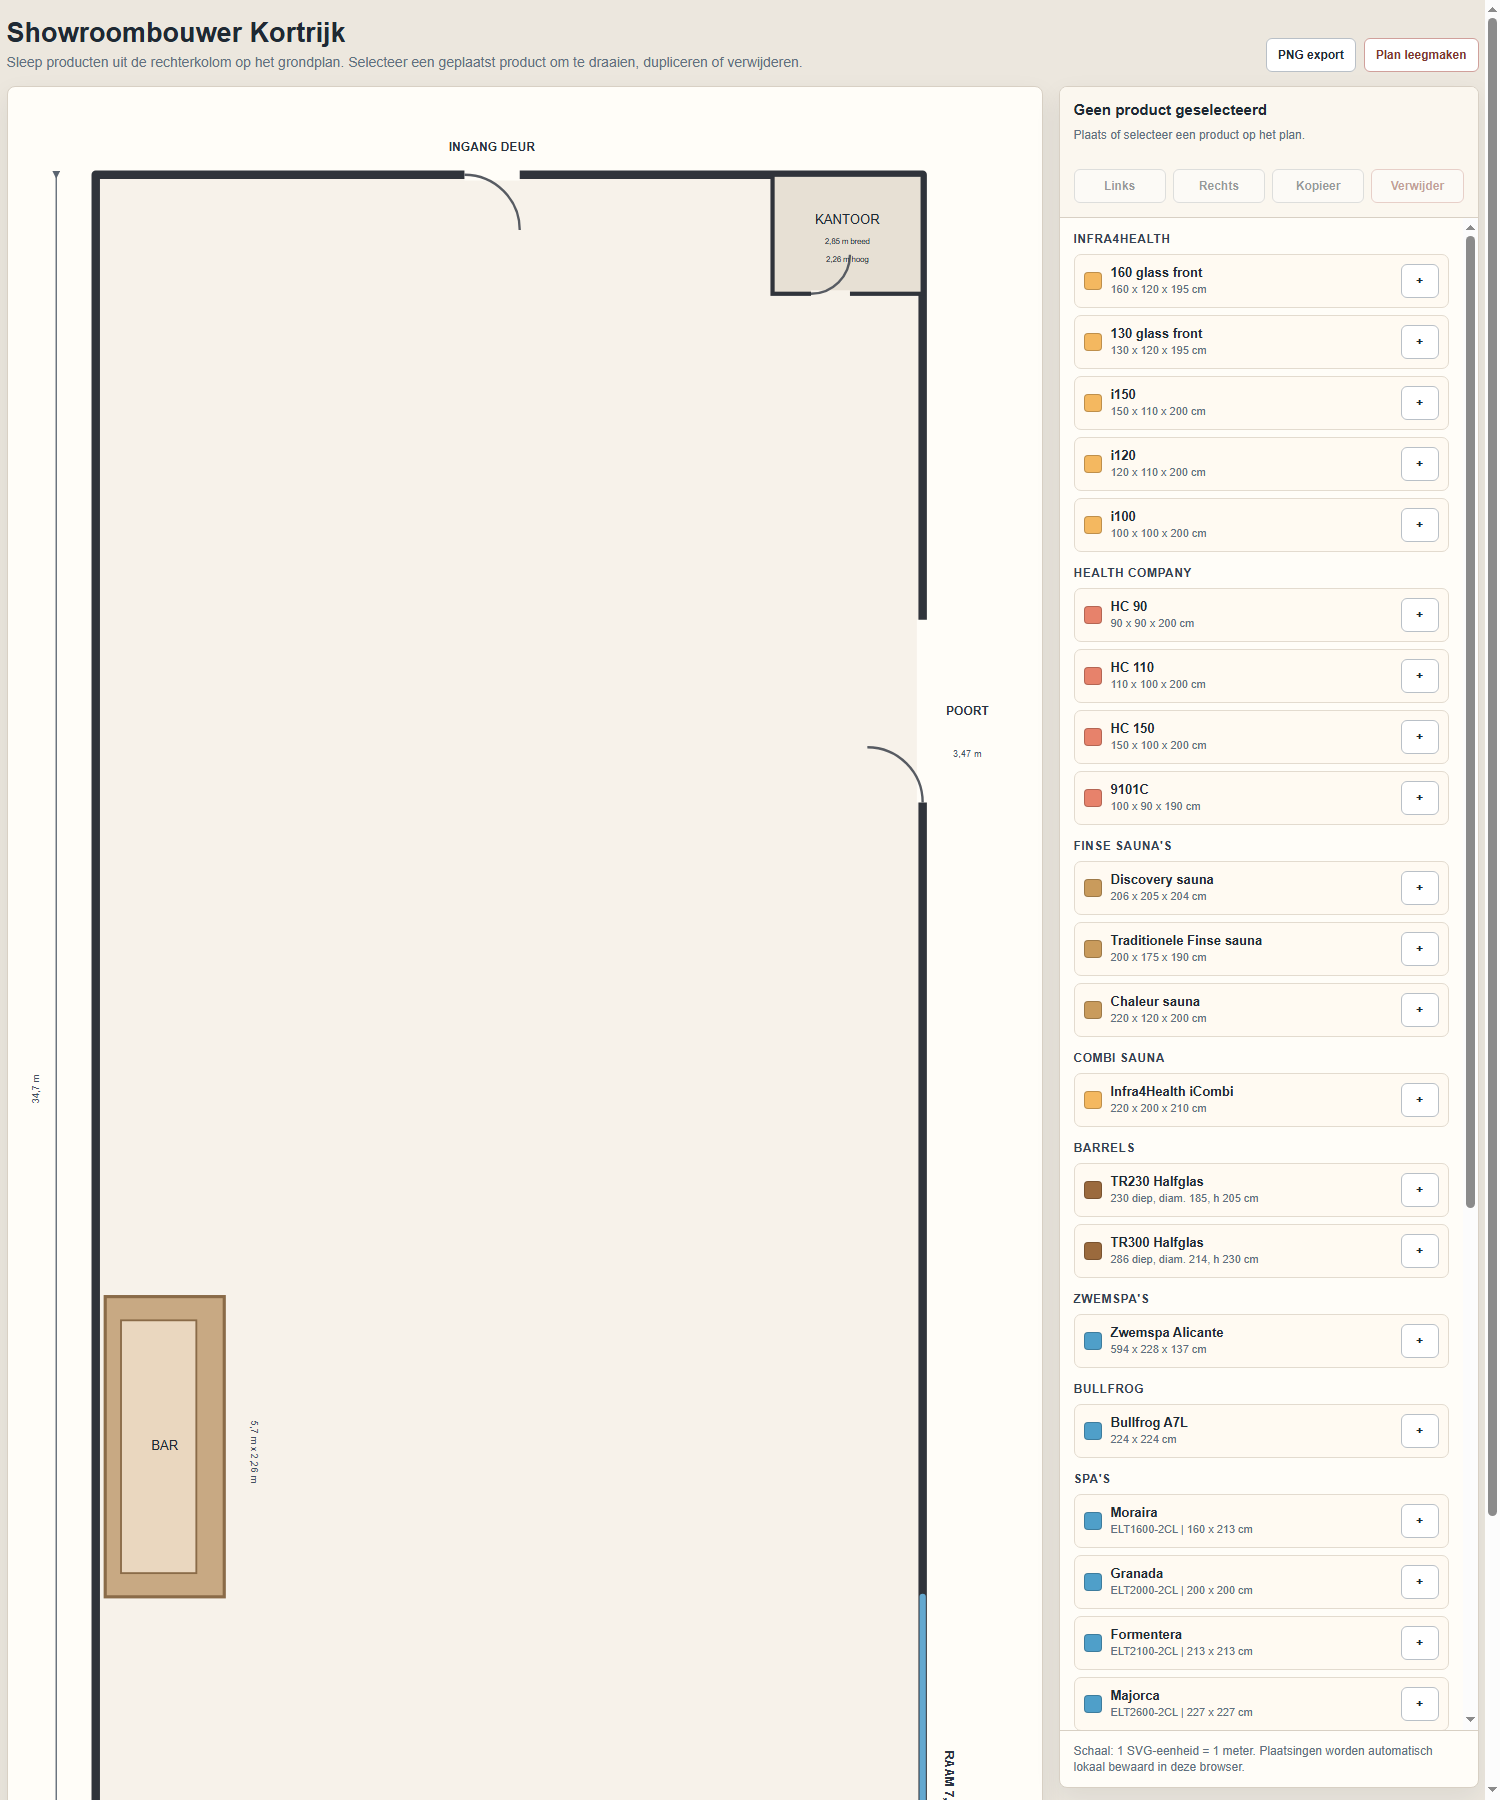
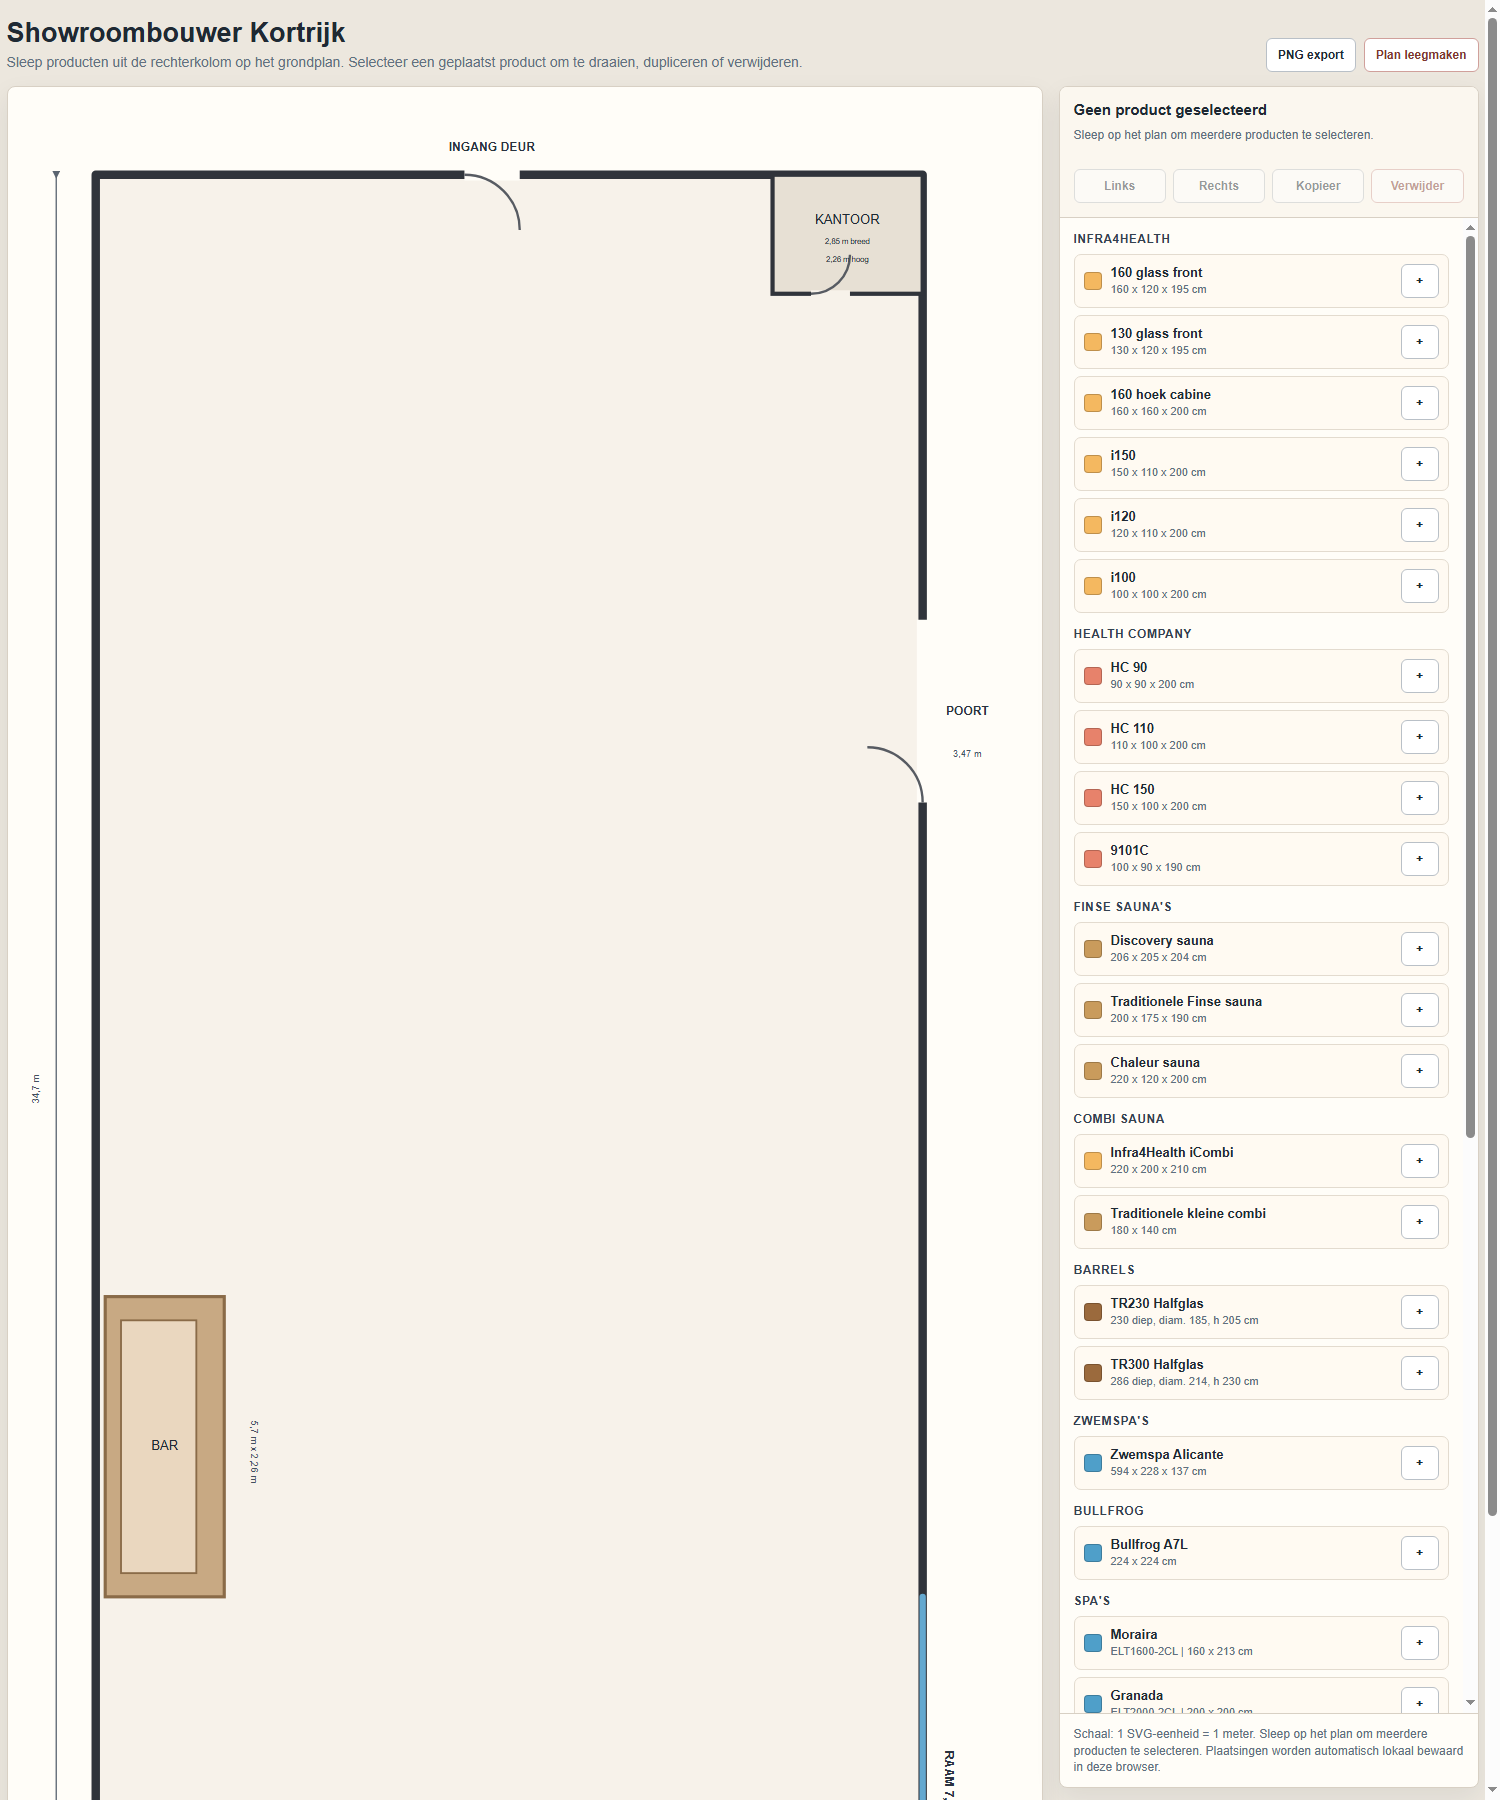
Add multi-select and extra sauna products

diff --git a/app.js b/app.js
@@ -4,6 +4,7 @@
   const svg = document.getElementById('plan');
   const board = document.getElementById('board');
   const itemsLayer = document.getElementById('items');
+  const selectionLayer = svgEl('g', { id: 'selectionLayer' });
   const catalog = document.getElementById('catalog');
   const selectedTitle = document.getElementById('selectedTitle');
   const selectedMeta = document.getElementById('selectedMeta');
@@ -28,6 +29,7 @@
   const products = [
     { id: 'infra-160', group: 'Infra4Health', name: '160 glass front', dims: '160 x 120 x 195 cm', w: 1.60, d: 1.20, h: 1.95, kind: 'rect', color: 'infra', glass: 'left' },
     { id: 'infra-130', group: 'Infra4Health', name: '130 glass front', dims: '130 x 120 x 195 cm', w: 1.30, d: 1.20, h: 1.95, kind: 'rect', color: 'infra', glass: 'left' },
+    { id: 'infra-corner-160', group: 'Infra4Health', name: '160 hoek cabine', dims: '160 x 160 x 200 cm', w: 1.60, d: 1.60, h: 2.00, kind: 'corner', color: 'infra', glass: 'angled' },
     { id: 'i150', group: 'Infra4Health', name: 'i150', dims: '150 x 110 x 200 cm', w: 1.50, d: 1.10, h: 2.00, kind: 'rect', color: 'infra', glass: 'left' },
     { id: 'i120', group: 'Infra4Health', name: 'i120', dims: '120 x 110 x 200 cm', w: 1.20, d: 1.10, h: 2.00, kind: 'rect', color: 'infra', glass: 'left' },
     { id: 'i100', group: 'Infra4Health', name: 'i100', dims: '100 x 100 x 200 cm', w: 1.00, d: 1.00, h: 2.00, kind: 'rect', color: 'infra', glass: 'left' },
@@ -39,6 +41,7 @@
     { id: 'finse', group: 'Finse sauna\'s', name: 'Traditionele Finse sauna', dims: '200 x 175 x 190 cm', w: 2.00, d: 1.75, h: 1.90, kind: 'rect', color: 'classic', glass: 'right' },
     { id: 'chaleur', group: 'Finse sauna\'s', name: 'Chaleur sauna', dims: '220 x 120 x 200 cm', w: 2.20, d: 1.20, h: 2.00, kind: 'rect', color: 'classic', glass: 'right' },
     { id: 'icombi', group: 'Combi sauna', name: 'Infra4Health iCombi', dims: '220 x 200 x 210 cm', w: 2.20, d: 2.00, h: 2.10, kind: 'rect', color: 'infra', glass: 'left' },
+    { id: 'trad-combi-small', group: 'Combi sauna', name: 'Traditionele kleine combi', dims: '180 x 140 cm', w: 1.80, d: 1.40, kind: 'rect', color: 'classic', glass: 'right' },
     { id: 'tr230', group: 'Barrels', name: 'TR230 Halfglas', dims: '230 diep, diam. 185, h 205 cm', w: 1.85, d: 2.30, h: 2.05, kind: 'barrel', color: 'barrel' },
     { id: 'tr300', group: 'Barrels', name: 'TR300 Halfglas', dims: '286 diep, diam. 214, h 230 cm', w: 2.14, d: 2.86, h: 2.30, kind: 'barrel', color: 'barrel' },
     { id: 'alicante', group: 'Zwemspa\'s', name: 'Zwemspa Alicante', dims: '594 x 228 x 137 cm', w: 2.28, d: 5.94, h: 1.37, kind: 'spa', color: 'spa' },
@@ -62,8 +65,10 @@
   ];
 
   let placed = load();
-  let selectedId = null;
+  let selectedIds = new Set();
   let dragState = null;
+
+  svg.appendChild(selectionLayer);
 
   renderCatalog();
   renderItems();
@@ -95,37 +100,88 @@
   });
 
   svg.addEventListener('pointerdown', (event) => {
+    if (event.button !== 0) return;
     const group = event.target.closest('[data-item-id]');
     if (!group) {
-      selectedId = null;
-      updateSelection();
-      renderItems();
+      const point = clientToSvg(event.clientX, event.clientY);
+      dragState = {
+        type: 'select',
+        startX: point.x,
+        startY: point.y,
+        currentX: point.x,
+        currentY: point.y,
+        moved: false,
+        rect: svgEl('rect', { class: 'marquee-selection', x: point.x, y: point.y, width: 0, height: 0 })
+      };
+      selectionLayer.appendChild(dragState.rect);
+      svg.setPointerCapture(event.pointerId);
       return;
     }
     event.preventDefault();
     const item = placed.find((entry) => entry.uid === group.dataset.itemId);
     if (!item) return;
-    selectedId = item.uid;
+
+    if (event.shiftKey) {
+      if (selectedIds.has(item.uid)) selectedIds.delete(item.uid);
+      else selectedIds.add(item.uid);
+    } else if (!selectedIds.has(item.uid)) {
+      selectedIds = new Set([item.uid]);
+    }
     updateSelection();
     renderItems();
     const point = clientToSvg(event.clientX, event.clientY);
-    dragState = { id: item.uid, dx: point.x - item.x, dy: point.y - item.y };
+    dragState = {
+      type: 'move',
+      ids: [...selectedIds],
+      startX: point.x,
+      startY: point.y,
+      originals: [...selectedIds].map((id) => {
+        const selected = placed.find((entry) => entry.uid === id);
+        return selected ? { id, x: selected.x, y: selected.y } : null;
+      }).filter(Boolean)
+    };
     svg.setPointerCapture(event.pointerId);
   });
 
   svg.addEventListener('pointermove', (event) => {
     if (!dragState) return;
-    const item = placed.find((entry) => entry.uid === dragState.id);
-    if (!item) return;
     const point = clientToSvg(event.clientX, event.clientY);
-    item.x = clamp(point.x - dragState.dx, 0, 15.7);
-    item.y = clamp(point.y - dragState.dy, 0, 34.7);
-    renderItems(false);
-    save();
+    const dx = point.x - dragState.startX;
+    const dy = point.y - dragState.startY;
+
+    if (dragState.type === 'select') {
+      dragState.currentX = point.x;
+      dragState.currentY = point.y;
+      dragState.moved = dragState.moved || Math.abs(dx) > 0.05 || Math.abs(dy) > 0.05;
+      updateMarquee(dragState);
+      if (dragState.moved) {
+        selectedIds = idsInRect(rectFromPoints(dragState.startX, dragState.startY, point.x, point.y));
+        renderItems(false);
+        updateSelection();
+      }
+      return;
+    }
+
+    if (dragState.type === 'move') {
+      dragState.originals.forEach((original) => {
+        const item = placed.find((entry) => entry.uid === original.id);
+        if (!item) return;
+        item.x = clamp(original.x + dx, 0, 15.7);
+        item.y = clamp(original.y + dy, 0, 34.7);
+      });
+      renderItems(false);
+      save();
+    }
   });
 
   svg.addEventListener('pointerup', (event) => {
     if (dragState) {
+      if (dragState.type === 'select') {
+        if (!dragState.moved) selectedIds = new Set();
+        selectionLayer.innerHTML = '';
+        renderItems();
+        updateSelection();
+      }
       dragState = null;
       save();
     }
@@ -136,20 +192,20 @@
   rotateRightBtn.addEventListener('click', () => rotateSelected(90));
 
   copyBtn.addEventListener('click', () => {
-    const item = selectedItem();
-    if (!item) return;
-    const clone = { ...item, uid: uid(), x: item.x + 0.35, y: item.y + 0.35 };
-    placed.push(clone);
-    selectedId = clone.uid;
+    const items = selectedItems();
+    if (!items.length) return;
+    const clones = items.map((item) => ({ ...item, uid: uid(), x: item.x + 0.35, y: item.y + 0.35 }));
+    placed.push(...clones);
+    selectedIds = new Set(clones.map((clone) => clone.uid));
     renderItems();
     updateSelection();
     save();
   });
 
   deleteBtn.addEventListener('click', () => {
-    if (!selectedId) return;
-    placed = placed.filter((item) => item.uid !== selectedId);
-    selectedId = null;
+    if (!selectedIds.size) return;
+    placed = placed.filter((item) => !selectedIds.has(item.uid));
+    selectedIds = new Set();
     renderItems();
     updateSelection();
     save();
@@ -158,7 +214,7 @@
   clearBtn.addEventListener('click', () => {
     if (!window.confirm('Alle geplaatste producten verwijderen?')) return;
     placed = [];
-    selectedId = null;
+    selectedIds = new Set();
     renderItems();
     updateSelection();
     save();
@@ -167,7 +223,7 @@
   savePngBtn.addEventListener('click', exportPng);
 
   window.addEventListener('keydown', (event) => {
-    if (!selectedId) return;
+    if (!selectedIds.size) return;
     const target = event.target;
     const isTyping = target && ['INPUT', 'TEXTAREA', 'SELECT'].includes(target.tagName);
     if (isTyping) return;
@@ -178,8 +234,8 @@
     }
     if (event.key === 'Delete' || event.key === 'Backspace') {
       event.preventDefault();
-      placed = placed.filter((item) => item.uid !== selectedId);
-      selectedId = null;
+      placed = placed.filter((item) => !selectedIds.has(item.uid));
+      selectedIds = new Set();
       renderItems();
       updateSelection();
       save();
@@ -237,7 +293,7 @@
         'data-item-id': item.uid,
         tabindex: 0
       });
-      group.appendChild(drawProduct(product, item.uid === selectedId));
+      group.appendChild(drawProduct(product, selectedIds.has(item.uid)));
       itemsLayer.appendChild(group);
     });
     if (updatePanel) updateSelection();
@@ -257,6 +313,10 @@
       const path = `M ${-w / 2} ${-d / 2 + w / 2} C ${-w / 2} ${-d / 2} ${w / 2} ${-d / 2} ${w / 2} ${-d / 2 + w / 2} L ${w / 2} ${d / 2} L ${-w / 2} ${d / 2} Z`;
       group.appendChild(svgEl('path', { d: path, fill, stroke, class: 'product-shape' }));
       group.appendChild(svgEl('line', { x1: -w * 0.35, y1: d / 2, x2: w * 0.35, y2: d / 2, class: 'glass' }));
+    } else if (product.kind === 'corner') {
+      const points = cornerPoints(w, d).map(([x, y]) => `${x},${y}`).join(' ');
+      group.appendChild(svgEl('polygon', { points, fill, stroke, class: 'product-shape' }));
+      group.appendChild(svgEl('line', { x1: w / 2, y1: d * 0.18, x2: w * 0.18, y2: d / 2, class: 'glass' }));
     } else {
       const opacity = product.kind === 'canopy' ? 0.92 : 1;
       const rectFill = product.kind === 'grass' ? 'url(#grass)' : fill;
@@ -288,7 +348,7 @@
       if (r) {
         group.appendChild(svgEl('circle', { cx: 0, cy: 0, r: r + 0.08, class: 'selection-box' }));
       } else {
-        group.appendChild(svgEl('rect', { x: -w / 2 - 0.08, y: -d / 2 - 0.08, width: w + 0.16, height: d + 0.16, class: 'selection-box' }));
+        group.appendChild(selectionShape(product));
       }
     }
     return group;
@@ -305,31 +365,38 @@
       r: 0
     };
     placed.push(item);
-    selectedId = item.uid;
+    selectedIds = new Set([item.uid]);
     renderItems();
     save();
   }
 
   function updateSelection() {
-    const item = selectedItem();
-    const product = item ? productById(item.productId) : null;
-    rotateLeftBtn.disabled = !item;
-    rotateRightBtn.disabled = !item;
-    copyBtn.disabled = !item;
-    deleteBtn.disabled = !item;
-    if (!item || !product) {
+    const items = selectedItems();
+    const product = items.length === 1 ? productById(items[0].productId) : null;
+    rotateLeftBtn.disabled = !items.length;
+    rotateRightBtn.disabled = !items.length;
+    copyBtn.disabled = !items.length;
+    deleteBtn.disabled = !items.length;
+    if (!items.length) {
       selectedTitle.textContent = 'Geen product geselecteerd';
-      selectedMeta.textContent = 'Plaats of selecteer een product op het plan.';
+      selectedMeta.textContent = 'Sleep op het plan om meerdere producten te selecteren.';
+      return;
+    }
+    if (items.length > 1) {
+      selectedTitle.textContent = `${items.length} producten geselecteerd`;
+      selectedMeta.textContent = 'Sleep een geselecteerd product om de hele selectie te verplaatsen.';
       return;
     }
     selectedTitle.textContent = product.name;
-    selectedMeta.textContent = `${product.dims} | positie ${item.x.toFixed(2)} m, ${item.y.toFixed(2)} m | rotatie ${item.r || 0} graden`;
+    selectedMeta.textContent = `${product.dims} | positie ${items[0].x.toFixed(2)} m, ${items[0].y.toFixed(2)} m | rotatie ${items[0].r || 0} graden`;
   }
 
   function rotateSelected(degrees) {
-    const item = selectedItem();
-    if (!item) return;
-    item.r = normalizeRotation((item.r || 0) + degrees);
+    const items = selectedItems();
+    if (!items.length) return;
+    items.forEach((item) => {
+      item.r = normalizeRotation((item.r || 0) + degrees);
+    });
     renderItems();
     updateSelection();
     save();
@@ -368,6 +435,78 @@
     return group;
   }
 
+  function cornerPoints(w, d) {
+    return [
+      [-w / 2, -d / 2],
+      [w / 2, -d / 2],
+      [w / 2, d * 0.18],
+      [w * 0.18, d / 2],
+      [-w / 2, d / 2]
+    ];
+  }
+
+  function selectionShape(product) {
+    if (product.kind === 'corner') {
+      const points = cornerPoints(product.w, product.d)
+        .map(([x, y]) => `${x},${y}`)
+        .join(' ');
+      return svgEl('polygon', { points, class: 'selection-box' });
+    }
+    return svgEl('rect', { x: -product.w / 2 - 0.08, y: -product.d / 2 - 0.08, width: product.w + 0.16, height: product.d + 0.16, class: 'selection-box' });
+  }
+
+  function updateMarquee(state) {
+    const rect = rectFromPoints(state.startX, state.startY, state.currentX, state.currentY);
+    state.rect.setAttribute('x', rect.x);
+    state.rect.setAttribute('y', rect.y);
+    state.rect.setAttribute('width', rect.width);
+    state.rect.setAttribute('height', rect.height);
+  }
+
+  function rectFromPoints(x1, y1, x2, y2) {
+    return {
+      x: Math.min(x1, x2),
+      y: Math.min(y1, y2),
+      width: Math.abs(x2 - x1),
+      height: Math.abs(y2 - y1)
+    };
+  }
+
+  function idsInRect(rect) {
+    return new Set(placed.filter((item) => {
+      const bounds = itemBounds(item);
+      return bounds.x1 <= rect.x + rect.width &&
+        bounds.x2 >= rect.x &&
+        bounds.y1 <= rect.y + rect.height &&
+        bounds.y2 >= rect.y;
+    }).map((item) => item.uid));
+  }
+
+  function itemBounds(item) {
+    const product = productById(item.productId);
+    if (!product) return { x1: item.x, y1: item.y, x2: item.x, y2: item.y };
+    const halfW = product.w / 2;
+    const halfD = product.d / 2;
+    const radians = ((item.r || 0) * Math.PI) / 180;
+    const cos = Math.cos(radians);
+    const sin = Math.sin(radians);
+    const corners = [
+      [-halfW, -halfD],
+      [halfW, -halfD],
+      [halfW, halfD],
+      [-halfW, halfD]
+    ].map(([x, y]) => ({
+      x: item.x + x * cos - y * sin,
+      y: item.y + x * sin + y * cos
+    }));
+    return {
+      x1: Math.min(...corners.map((point) => point.x)),
+      y1: Math.min(...corners.map((point) => point.y)),
+      x2: Math.max(...corners.map((point) => point.x)),
+      y2: Math.max(...corners.map((point) => point.y))
+    };
+  }
+
   function splitDims(dims, maxChars) {
     const cleaned = dims
       .split('|')
@@ -392,7 +531,11 @@
   }
 
   function selectedItem() {
-    return placed.find((item) => item.uid === selectedId);
+    return selectedItems()[0];
+  }
+
+  function selectedItems() {
+    return placed.filter((item) => selectedIds.has(item.uid));
   }
 
   function productById(id) {
@@ -468,7 +611,13 @@
   function exportPng() {
     const clone = svg.cloneNode(true);
     clone.setAttribute('xmlns', SVG_NS);
-    const styles = [...document.querySelectorAll('style')].map((style) => style.textContent).join('\n');
+    const styles = [...document.styleSheets].map((sheet) => {
+      try {
+        return [...sheet.cssRules].map((rule) => rule.cssText).join('\n');
+      } catch {
+        return '';
+      }
+    }).join('\n');
     const styleNode = document.createElementNS(SVG_NS, 'style');
     styleNode.textContent = styles;
     clone.insertBefore(styleNode, clone.firstChild);

diff --git a/index.html b/index.html
@@ -99,7 +99,7 @@
         </div>
       </section>
       <section class="catalog" id="catalog" aria-label="Producten"></section>
-      <div class="footer">Schaal: 1 SVG-eenheid = 1 meter. Plaatsingen worden automatisch lokaal bewaard in deze browser.</div>
+      <div class="footer">Schaal: 1 SVG-eenheid = 1 meter. Sleep op het plan om meerdere producten te selecteren. Plaatsingen worden automatisch lokaal bewaard in deze browser.</div>
     </aside>
   </section>
 </main>

diff --git a/styles.css b/styles.css
@@ -224,6 +224,7 @@
     .product-label { pointer-events: none; font: 0.18px Arial, Helvetica, sans-serif; fill: #1f2933; text-anchor: middle; dominant-baseline: middle; }
     .glass { pointer-events: none; stroke: #e8fbff; stroke-width: 0.07; stroke-linecap: round; vector-effect: non-scaling-stroke; }
     .selection-box { fill: none; stroke: var(--selected); stroke-width: 0.055; stroke-dasharray: 0.16 0.10; vector-effect: non-scaling-stroke; pointer-events: none; }
+    .marquee-selection { fill: rgba(37, 109, 144, 0.10); stroke: var(--selected); stroke-width: 0.055; stroke-dasharray: 0.18 0.12; vector-effect: non-scaling-stroke; pointer-events: none; }
     .drag-target { outline: 2px solid #256d90; outline-offset: -8px; }
 
     @media (max-width: 1120px) {